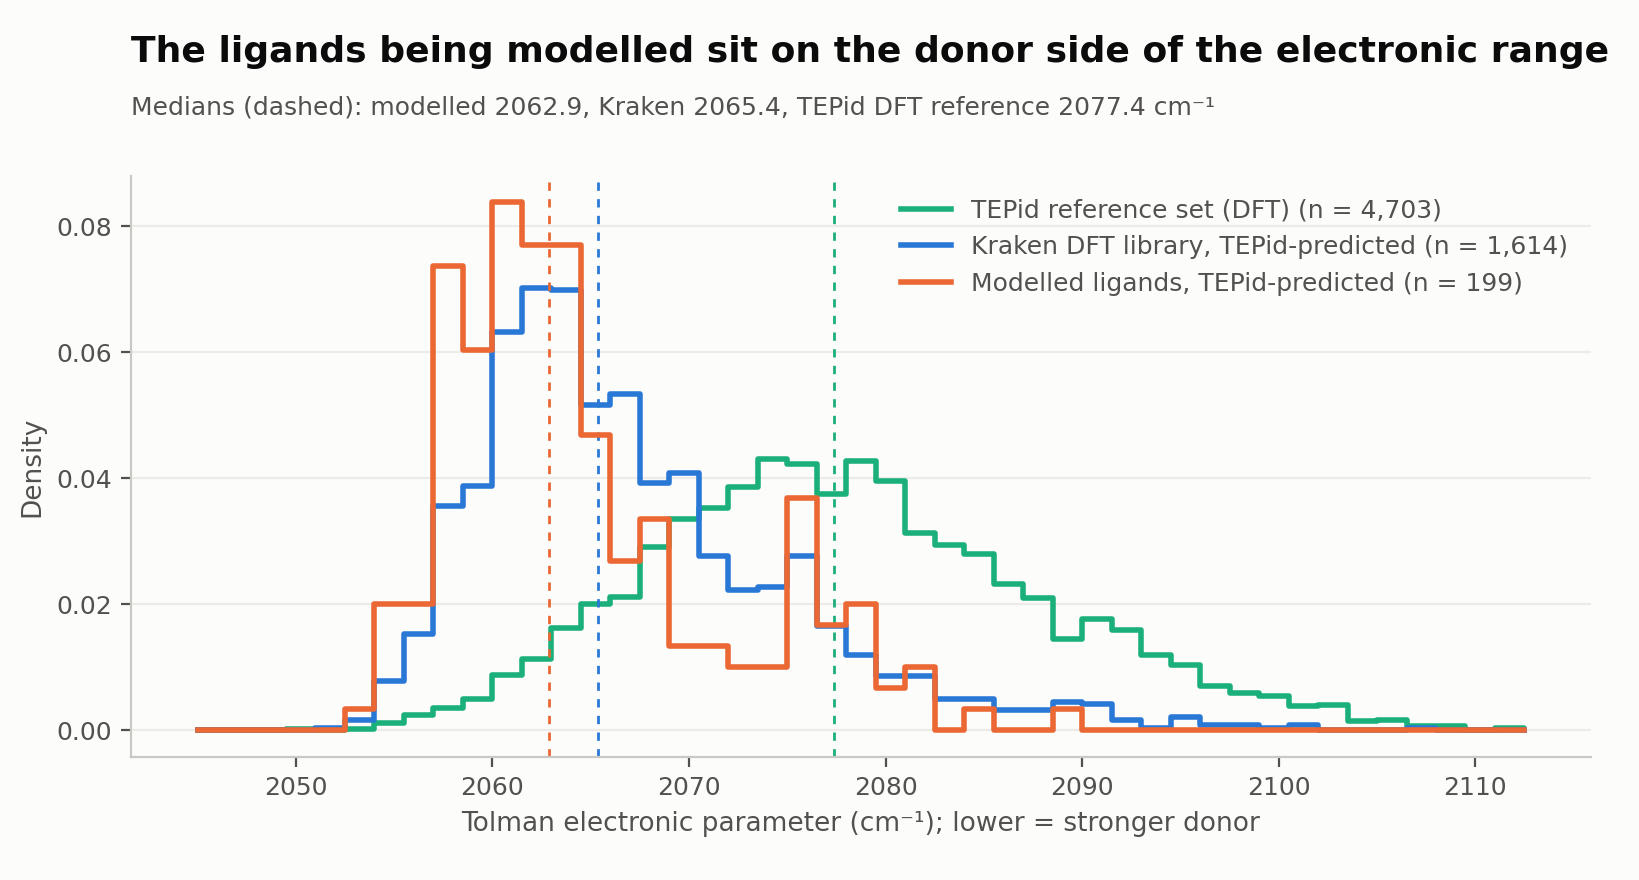
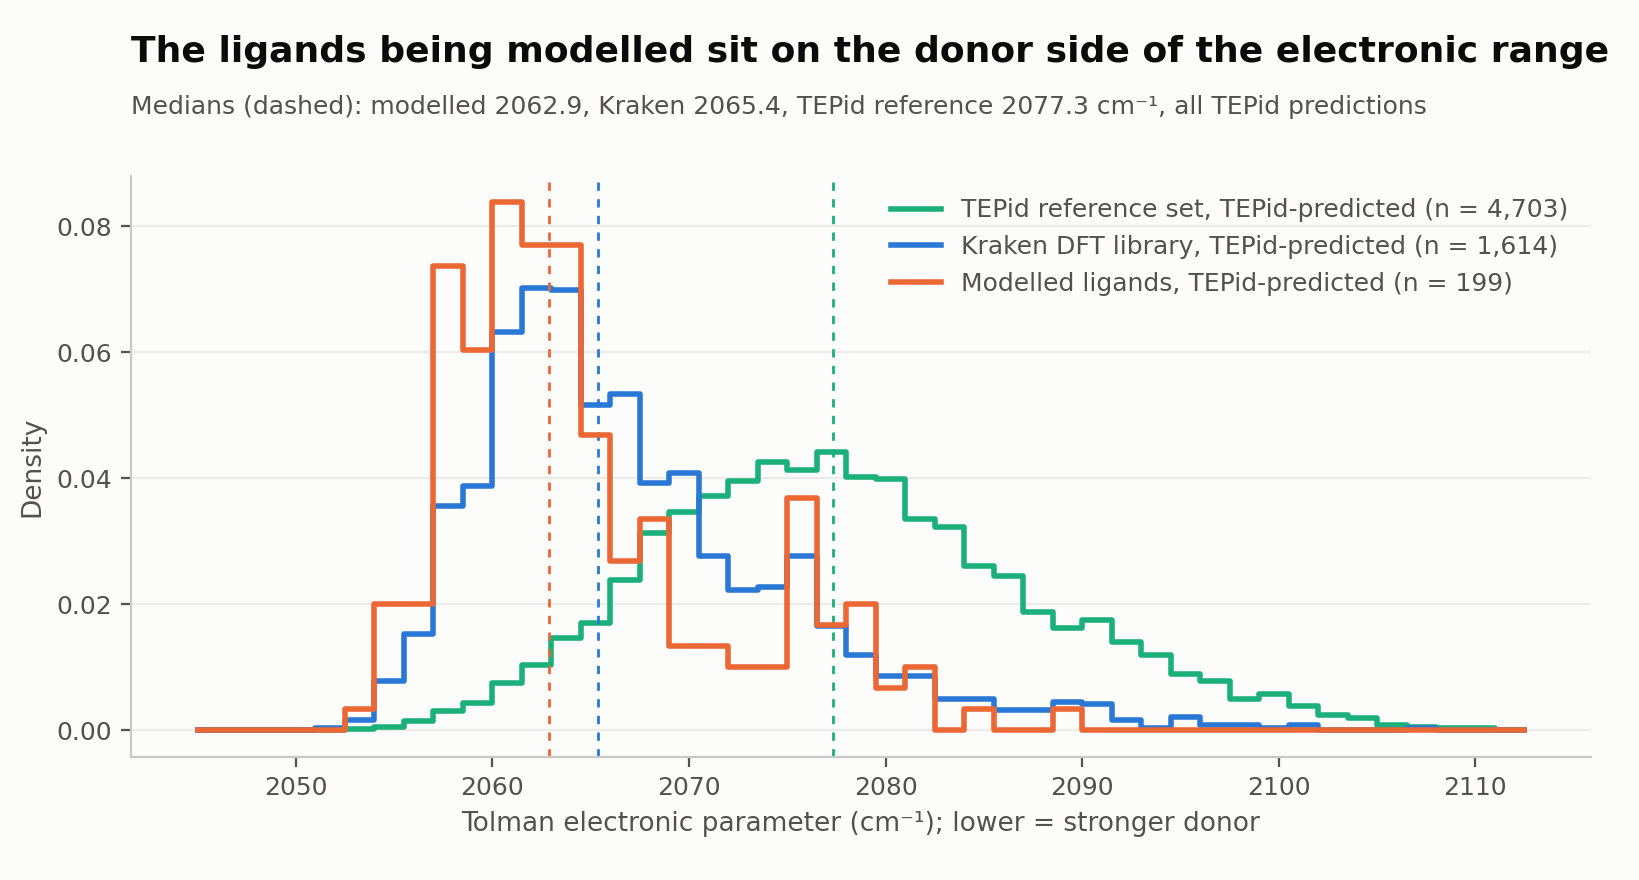
Compare TEP distributions prediction against prediction
The TEPid reference set was plotted with its DFT values while Kraken used
model predictions; both now use TEPid predictions. The model reproduces
its reference set to 1.0 cm-1 (SD), so the donor skew stands.

Claude-Session: https://claude.ai/code/session_015jRzF5nx9MjSMcaRXGx2pW

diff --git a/src/ligsel/characterise.py b/src/ligsel/characterise.py
@@ -89,20 +89,23 @@ def tep_figure() -> dict:
     if not tep_path.exists():
         print("data/processed/tepid.csv missing: run `make tepid` first; skipping the TEP figure")
         return {}
-    import os
     tep = pd.read_csv(tep_path).dropna()
-    ref_path = os.path.expanduser(os.environ.get(
-        "TEPID_DIR", "~/ext/TEPid")) + "/Machine_Learning_Model/20230720-TEPid_DATA.xlsx"
-    ref = pd.read_excel(ref_path)["TEPcorr"].dropna()
+    ref_all = pd.read_csv(PROCESSED_DIR / "tepid_reference.csv")
+    # like for like: TEPid's predictions on its own reference set, not that set's DFT values
+    ref = ref_all["tep_predicted"].dropna()
+    err = (ref_all["tep_predicted"] - ref_all["tep_dft_corrected"]).dropna()
     j = pd.read_csv(PROCESSED_DIR / "joined.csv")
     roles = load_config()["datasets"]
     used = j[j["included"] & j["dataset"].map(lambda d: roles[d]["role"] in ("primary", "external"))]["id_2025"]
     modelled = tep[tep["kraken_id"].isin(used.dropna().astype(int))]["tep_cm1"]
-    groups = [("TEPid reference set (DFT)", ref, SERIES[2]),
+    groups = [("TEPid reference set, TEPid-predicted", ref, SERIES[2]),
               ("Kraken DFT library, TEPid-predicted", tep["tep_cm1"], SERIES[0]),
               ("Modelled ligands, TEPid-predicted", modelled, SERIES[1])]
     summary = pd.DataFrame([{"set": n, "n": len(v), "median": v.median(), "mean": v.mean(), "sd": v.std(),
                              "q10": v.quantile(0.1), "q90": v.quantile(0.9)} for n, v, _ in groups])
+    summary = pd.concat([summary, pd.DataFrame([{
+        "set": "TEPid reference: prediction minus DFT", "n": len(err), "median": err.median(),
+        "mean": err.mean(), "sd": err.std(), "q10": err.quantile(0.1), "q90": err.quantile(0.9)}])])
     summary.round(2).to_csv(RESULTS_DIR / "tables" / "tep_summary.csv", index=False)
 
     fig, ax = plt.subplots(figsize=(8.2, 4.4), facecolor=SURFACE)
@@ -120,8 +123,8 @@ def tep_figure() -> dict:
     s = summary.set_index("set")["median"]
     fig.text(0.08, 0.93, "The ligands being modelled sit on the donor side of the electronic range",
              fontsize=13, fontweight="bold", color=INK)
-    fig.text(0.08, 0.87, f"Medians (dashed): modelled {s.iloc[2]:.1f}, Kraken {s.iloc[1]:.1f}, TEPid DFT reference "
-             f"{s.iloc[0]:.1f} cm⁻¹", fontsize=9, color=INK2)
+    fig.text(0.08, 0.87, f"Medians (dashed): modelled {s.iloc[2]:.1f}, Kraken {s.iloc[1]:.1f}, TEPid reference "
+             f"{s.iloc[0]:.1f} cm⁻¹, all TEPid predictions", fontsize=9, color=INK2)
     fig.savefig(RESULTS_DIR / "figures" / "tep_skew.png", dpi=200, facecolor=SURFACE)
     plt.close(fig)
     return {f"tep_median_{i}": round(float(s.iloc[i]), 1) for i in range(3)}

diff --git a/scripts/run_tepid.py b/scripts/run_tepid.py
@@ -5,11 +5,13 @@ LightGBM model that needs its own pinned environment, so this script runs under 
 interpreter, never the project's:
 
     python3 -m venv ~/venv-tepid
-    ~/venv-tepid/bin/pip install "numpy<1.24" pandas==1.5.3 scikit-learn==1.2.2 lightgbm==3.3.5 rdkit==2023.3.2
+    ~/venv-tepid/bin/pip install "numpy<1.24" pandas==1.5.3 scikit-learn==1.2.2 lightgbm==3.3.5 rdkit==2023.3.2 openpyxl==3.1.2
     git clone https://github.com/DanielEss-lab/TEPid ~/ext/TEPid
     make tepid TEPID_PY=~/venv-tepid/bin/python TEPID_DIR=~/ext/TEPid
 
-Input: data/processed/kraken_2025.csv.gz. Output: data/processed/tepid.csv (kraken_id, tep_cm1).
+Input: data/processed/kraken_2025.csv.gz. Outputs: data/processed/tepid.csv (kraken_id, tep_cm1), and
+data/processed/tepid_reference.csv: TEPid's own DFT reference set with the model's predictions beside
+its DFT values, so Kraken can be compared with the reference like for like (prediction vs prediction).
 TEP is used only to describe the library, never as a model feature (pre-registration, scope lock).
 """
 import pickle
@@ -48,6 +50,18 @@ def main(tepid_dir: str, repo: str) -> None:
     df = pd.DataFrame(out, columns=["kraken_id", "tep_cm1"])
     df.to_csv(Path(repo) / "data/processed/tepid.csv", index=False)
     print(f"TEP predicted for {df['tep_cm1'].notna().sum()} of {len(df)} ligands")
+
+    ref = pd.read_excel(Path(tepid_dir) / "Machine_Learning_Model/20230720-TEPid_DATA.xlsx")
+    preds = []
+    for smi in ref["SMILES"]:
+        mol = Chem.MolFromSmiles(smi) if isinstance(smi, str) else None
+        try:
+            preds.append(float(model.predict([list(calc.CalcDescriptors(Chem.AddHs(mol)))])[0]) if mol else None)
+        except Exception:
+            preds.append(None)
+    out = pd.DataFrame({"smiles": ref["SMILES"], "tep_dft_corrected": ref["TEPcorr"], "tep_predicted": preds})
+    out.to_csv(Path(repo) / "data/processed/tepid_reference.csv", index=False)
+    print(f"reference set: {out['tep_predicted'].notna().sum()} of {len(out)} predicted")
 
 
 if __name__ == "__main__":
